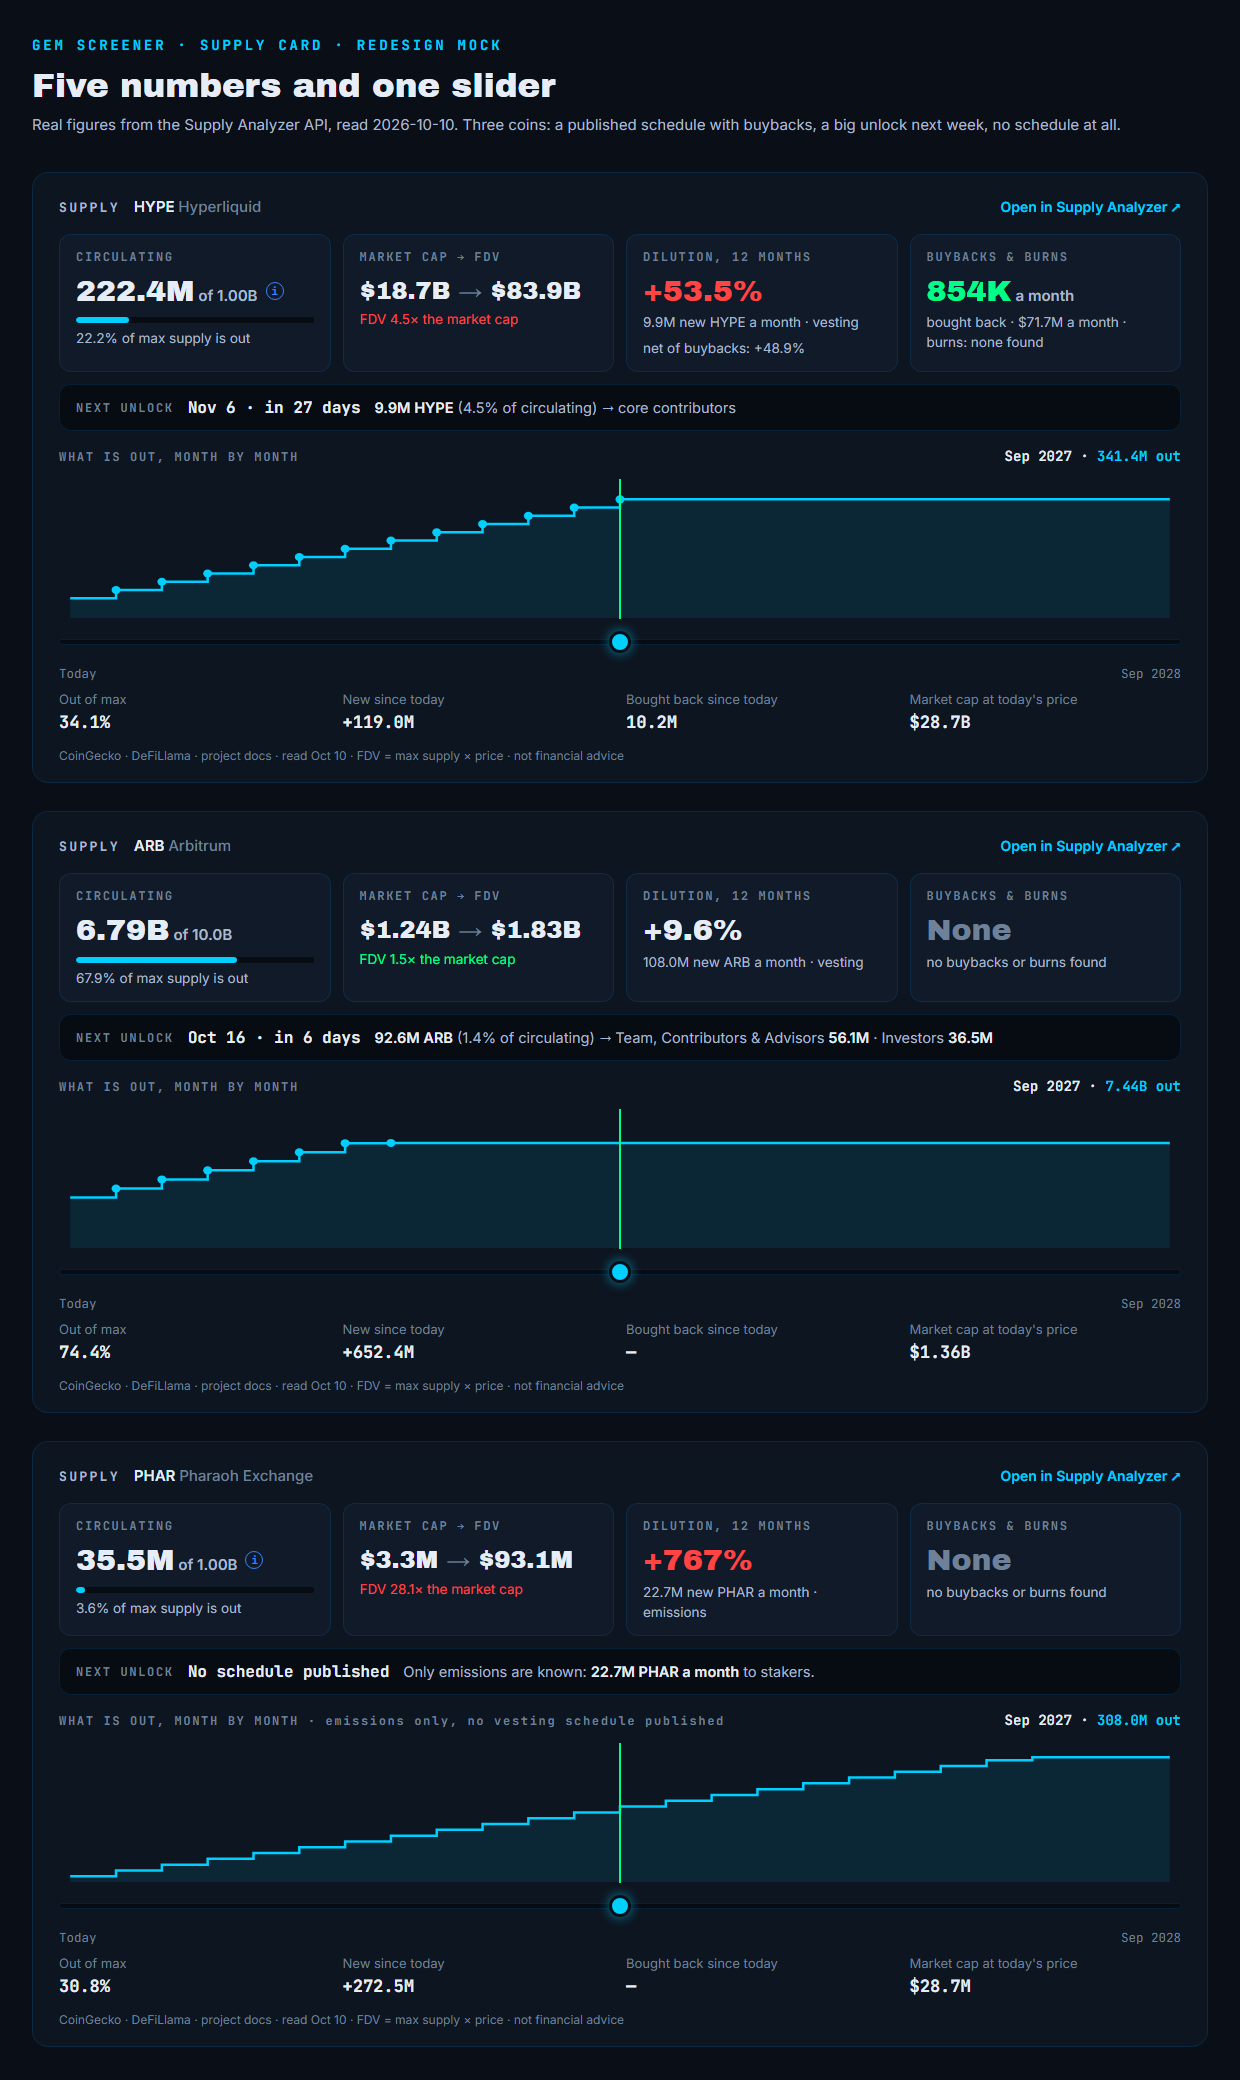
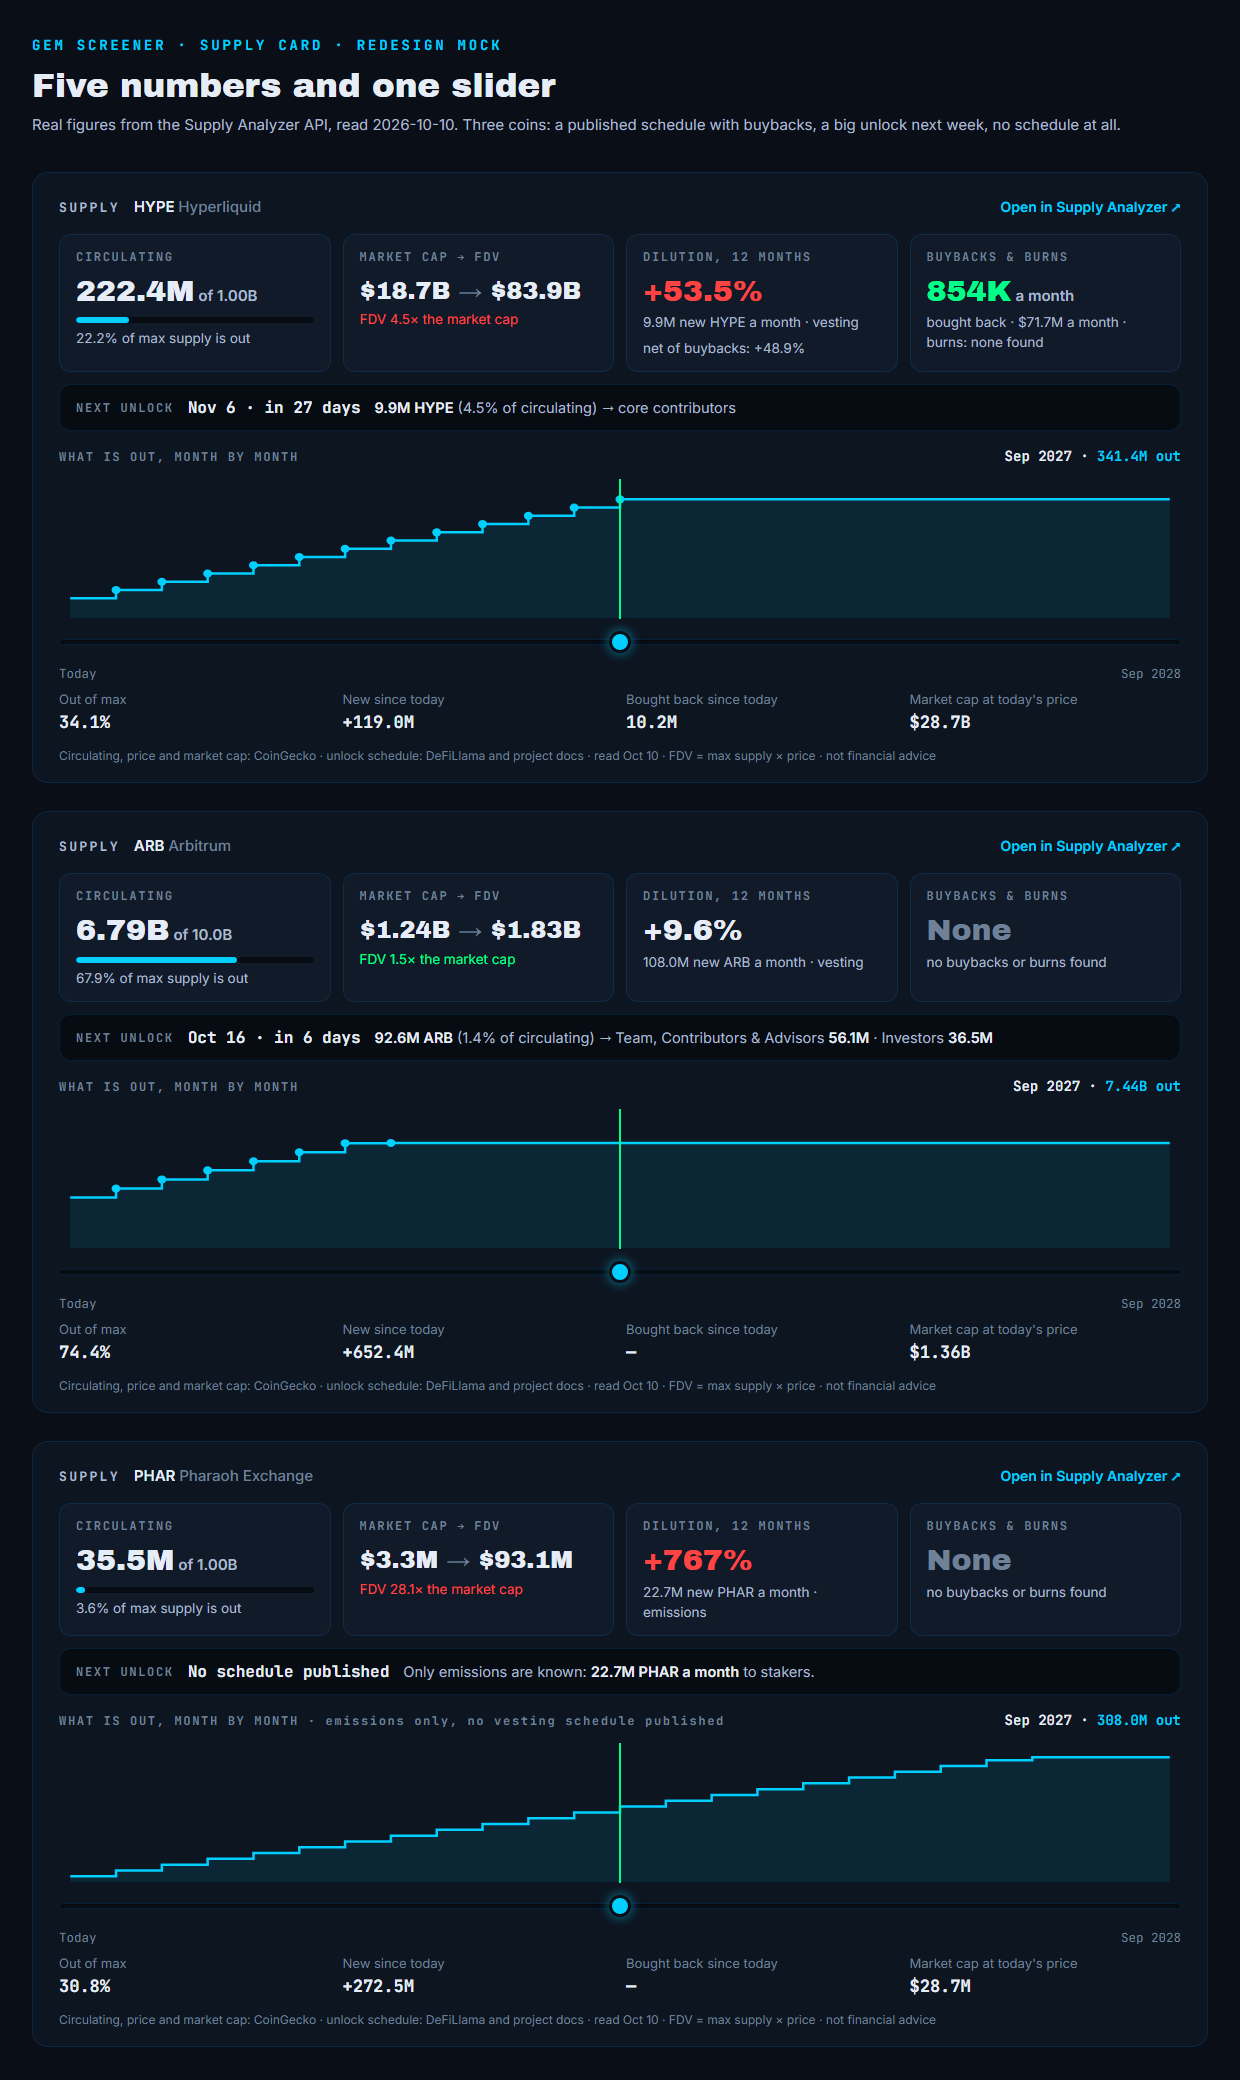
Supply card mock: one source for circulating and market cap (CoinGecko, matches the chain on PHAR); DeFiLlama only for the unlock schedule
Effort: xhigh

Changed region(s): [[0.3371, 0.9688, 0.3677, 1.0], [0.3371, 0.6562, 0.3677, 0.6875], [0.3371, 0.3438, 0.3677, 0.375]]

diff --git a/outbox/supply-card-redesign/mockup.html b/outbox/supply-card-redesign/mockup.html
@@ -97,7 +97,7 @@ function card(sym, d) {
   const ratioCls = ratio >= 3 ? "red" : ratio <= 1.5 ? "green" : "";
   const dilCls = dil >= 25 ? "red" : dil < 5 ? "green" : "";
   const dis = d.disagree[0];
-  const tip = dis ? `<span class="tip" title="Sources differ: CoinGecko counts ${fmt(d.circ)} in circulation, ${dis[0]} ${fmt(dis[1])}. With ${dis[0]}'s count the 12-month dilution is ${pct(100*in12/dis[1])}.">i</span>` : "";
+  const tip = "";
   const disNote = "";
   const net = d.buyback ? `<div class="s">net of buybacks: ${pct(100*(in12 - 12*d.buyback)/d.circ)}</div>` : "";
   const bbUsd = d.buyback * d.price;
@@ -143,7 +143,7 @@ function card(sym, d) {
       <div class="axis"><span>Today</span><span>${d.labels[d.labels.length-1]}</span></div>
       <div class="rows" id="${id}rows"></div>
     </div>
-    <div class="foot">CoinGecko · DeFiLlama · project docs · read Oct 10 · FDV = max supply × price · not financial advice</div>
+    <div class="foot">Circulating, price and market cap: CoinGecko · unlock schedule: DeFiLlama and project docs · read Oct 10 · FDV = max supply × price · not financial advice</div>
   </section>`;
 }
 
